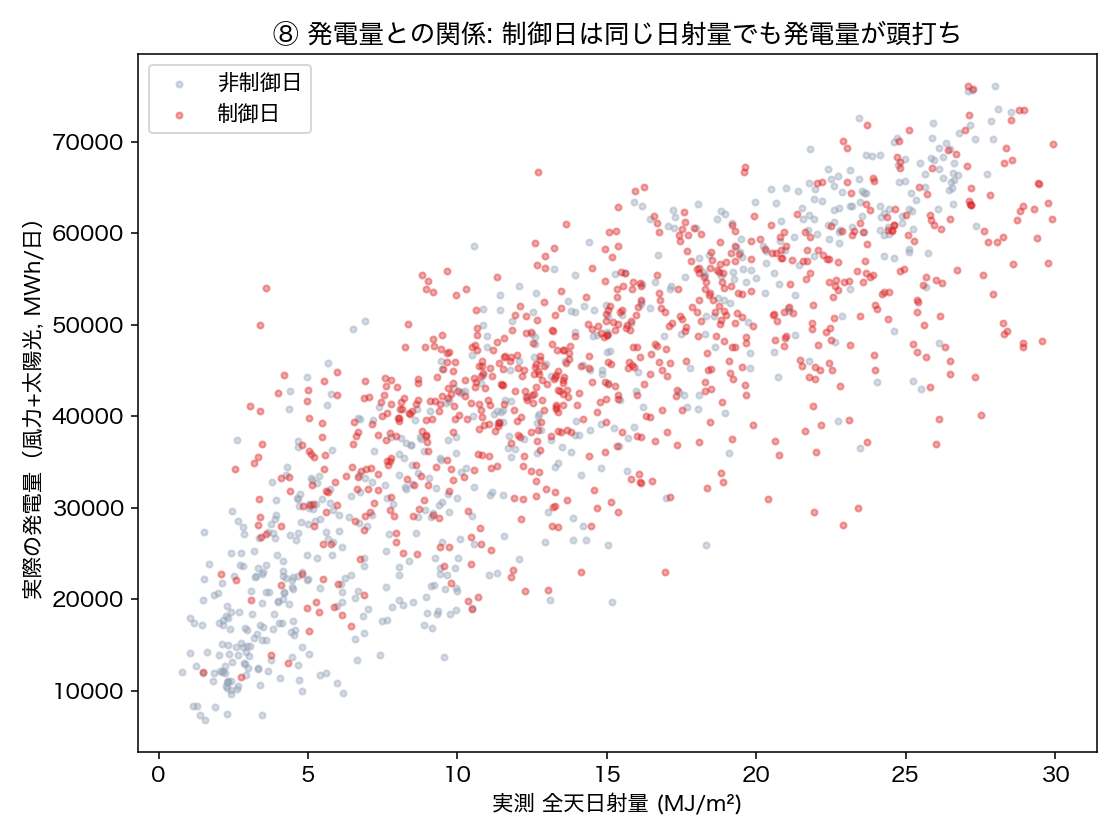
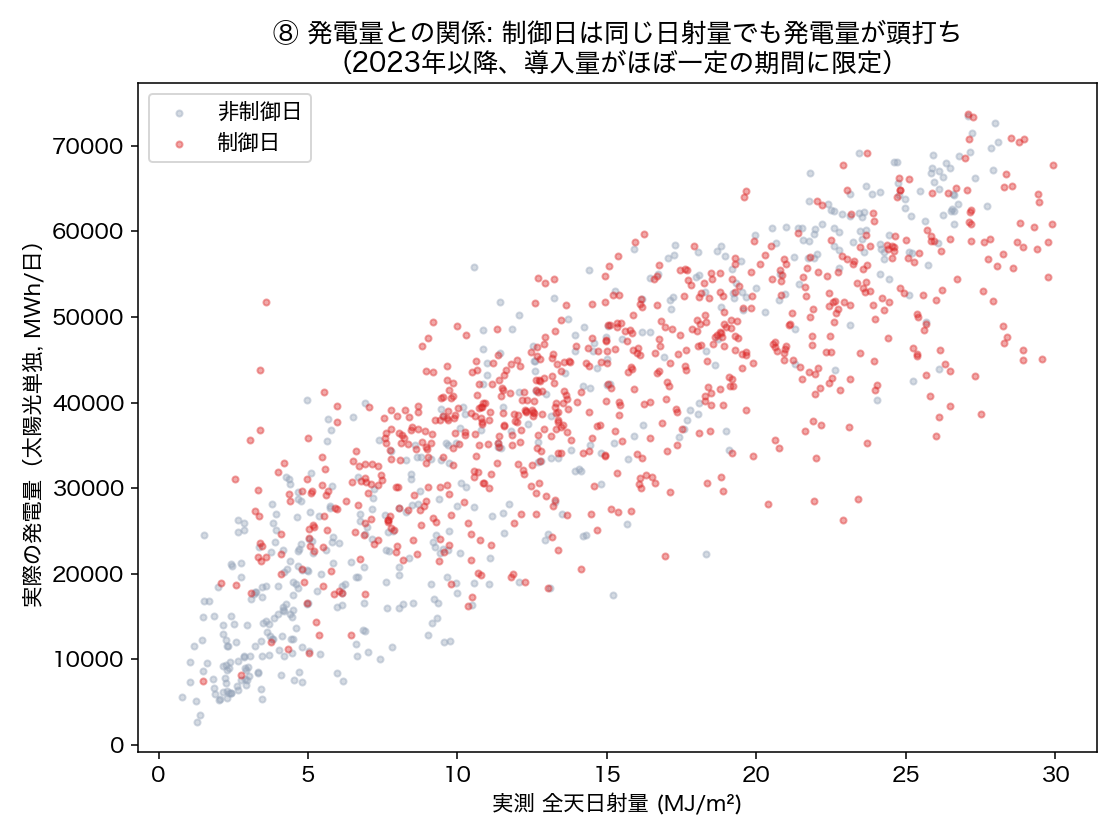
ID-01: 太陽光単独データに切り替えて発電量との相関を再検証
風力+太陽光の合計データでは風力という日射と無関係な変数が混ざり
相関が弱まるとの指摘を受け、太陽光単独の実績データに切り替えた。
九州電力送配電の旧形式(2016-2023年度、時別MWh)と新形式(2024年〜、
30分値)を接続し、2018-10〜2026-09の全期間で太陽光単独の日次発電量
を取得(fetch_kyushu_solar_only.py)。

太陽光単独にすると全天日射量r=0.835・日照時間r=0.799となり、風力
混在時(0.819/0.796)よりいずれも相関が改善。

副産物の発見: 出力制御の頭打ち効果を確認する際、太陽光の導入量が
年々増えているため全期間のまま単純比較すると「制御日の方が発電量が
多い」という逆転した結果になる。導入量がほぼ一定の2023年以降に
限定することで、正しく頭打ち効果(制御日46,206MWh vs 非制御日
52,080MWh)を確認できた。

REPORT.md・README.md・図2枚を更新。

diff --git a/experiments/id01_curtailment_compare/src/analyze_kyushu_generation.py b/experiments/id01_curtailment_compare/src/analyze_kyushu_generation.py
@@ -1,8 +1,12 @@
-"""九州電力送配電の実際の発電量（エリア風力・太陽光発電量、日次合計）と、気象データ
-（実測の日照時間・全天日射量、および各種予報手法のシミュレーション値）の相関を検証する。
+"""九州電力送配電の実際の発電量と、気象データ（実測の日照時間・全天日射量、および各種予報手法の
+シミュレーション値）の相関を検証する。
 
-注意: 発電量は「出力制御後」の値であり、かつ風力・太陽光の合計（九州は太陽光が主体と
-推測されるが厳密には混在）。制御が発生した日は「天気が良いのに発電量が増えない/落ちる」
+**太陽光単独**（kyushu_solar_only_daily.csv、2018-10〜2026-09・旧形式+新形式を接続して取得）を主軸にする。
+風力は日射と無関係なため、「エリア風力・太陽光発電量」の合計（kyushu_wind_solar_daily.csv、
+2022-07〜のみ）を使うと太陽光単独の相関より弱く出てしまう（ユーザーからの指摘で判明、比較結果は
+下記に出力する）。
+
+注意: 発電量は「出力制御後」の値。制御が発生した日は「天気が良いのに発電量が増えない/落ちる」
 という逆転が起きるため、相関を見る際は制御日と非制御日を分けて確認する。
 """
 from pathlib import Path
@@ -18,19 +22,17 @@ PROCESSED_DIR = BASE_DIR / "data" / "processed"
 
 
 def main():
-    gen = pd.read_csv(PROCESSED_DIR / "kyushu_wind_solar_daily.csv", parse_dates=["date"])
-    gen["wind_solar_mwh"] = gen["wind_solar_kwh"] / 1000
-
+    solar = pd.read_csv(PROCESSED_DIR / "kyushu_solar_only_daily.csv", parse_dates=["date"])
     solar_mj = pd.read_csv(PROCESSED_DIR / "solar_fukuoka.csv", parse_dates=["date"])
     backtest = build_backtest_dataset()  # sunshine_h(実測) / amgsds_proxy_h / simplified_h / is_curtailed
 
-    df = gen.merge(backtest, on="date", how="inner").merge(solar_mj, on="date", how="inner")
-    print(f"比較対象: {len(df)}日（{df['date'].min().date()} 〜 {df['date'].max().date()}）\n")
+    df = solar.merge(backtest, on="date", how="inner").merge(solar_mj, on="date", how="inner")
+    print(f"比較対象（太陽光単独、全期間）: {len(df)}日（{df['date'].min().date()} 〜 {df['date'].max().date()}）\n")
 
     print("=== 実際の発電量[MWh]との相関（全日） ===")
     for col, name in [("sunshine_h", "実測日照時間"), ("solar_mj", "実測全天日射量"),
                        ("amgsds_proxy_h", "AMGSDS風(快晴バイアス補正)"), ("simplified_h", "簡略化")]:
-        r = df["wind_solar_mwh"].corr(df[col])
+        r = df["solar_mwh"].corr(df[col])
         print(f"  {name:28s} r={r:.3f}")
 
     print("\n=== 非制御日のみでの相関（出力制御による頭打ちを除く） ===")
@@ -38,15 +40,33 @@ def main():
     print(f"  (n={len(non_curtailed)})")
     for col, name in [("sunshine_h", "実測日照時間"), ("solar_mj", "実測全天日射量"),
                        ("amgsds_proxy_h", "AMGSDS風(快晴バイアス補正)"), ("simplified_h", "簡略化")]:
-        r = non_curtailed["wind_solar_mwh"].corr(non_curtailed[col])
+        r = non_curtailed["solar_mwh"].corr(non_curtailed[col])
         print(f"  {name:28s} r={r:.3f}")
 
-    print("\n=== 制御日 vs 非制御日の発電量レベル（天気が同程度でも制御で頭打ちになるか） ===")
+    print("\n=== 制御日 vs 非制御日の発電量レベル（全期間、天気が同程度でも制御で頭打ちになるか） ===")
+    print("  【注意】全期間(2018-2026)だと太陽光の導入量が年々増えているため、単純比較は")
+    print("  「天気」ではなく「導入量の違う年を混ぜて比較」になり、頭打ち効果が隠れる/逆転しうる。")
     clear_days = df[df["weather_class"].isin(["快晴", "晴れ"])]
     for label, sub in [("快晴/晴れ×制御日", clear_days[clear_days["is_curtailed"] == 1]),
                         ("快晴/晴れ×非制御日", clear_days[clear_days["is_curtailed"] == 0])]:
-        print(f"  {label}: n={len(sub)}  発電量平均={sub['wind_solar_mwh'].mean():.1f}MWh  "
+        print(f"  {label}: n={len(sub)}  発電量平均={sub['solar_mwh'].mean():.1f}MWh  "
               f"実測日照時間平均={sub['sunshine_h'].mean():.2f}h")
+
+    print("\n=== 同じ比較（導入量がほぼ一定の直近期間に限定、2023-01以降） ===")
+    recent_clear = clear_days[clear_days["date"] >= "2023-01-01"]
+    for label, sub in [("快晴/晴れ×制御日(直近)", recent_clear[recent_clear["is_curtailed"] == 1]),
+                        ("快晴/晴れ×非制御日(直近)", recent_clear[recent_clear["is_curtailed"] == 0])]:
+        print(f"  {label}: n={len(sub)}  発電量平均={sub['solar_mwh'].mean():.1f}MWh  "
+              f"実測日照時間平均={sub['sunshine_h'].mean():.2f}h")
+
+    print("\n=== 参考: 風力+太陽光の合計（旧データ、2022-07〜）を使うと相関が弱まる ===")
+    wind_solar = pd.read_csv(PROCESSED_DIR / "kyushu_wind_solar_daily.csv", parse_dates=["date"])
+    wind_solar["wind_solar_mwh"] = wind_solar["wind_solar_kwh"] / 1000
+    df_ws = df.merge(wind_solar[["date", "wind_solar_mwh"]], on="date", how="inner")
+    for col, name in [("sunshine_h", "実測日照時間"), ("solar_mj", "実測全天日射量")]:
+        r_solar = df_ws["solar_mwh"].corr(df_ws[col])
+        r_ws = df_ws["wind_solar_mwh"].corr(df_ws[col])
+        print(f"  {name}: 太陽光単独 r={r_solar:.3f}  風力+太陽光合計 r={r_ws:.3f}  (n={len(df_ws)})")
 
     out_path = PROCESSED_DIR / "kyushu_generation_merged.csv"
     df.to_csv(out_path, index=False)

diff --git a/experiments/id01_curtailment_compare/src/fetch_kyushu_solar_only.py b/experiments/id01_curtailment_compare/src/fetch_kyushu_solar_only.py
@@ -1,0 +1,125 @@
+"""九州電力送配電の太陽光発電実績「単独」の日次合計を取得する（風力を含まない）。
+
+これまでの fetch_kyushu_generation.py は「エリア風力・太陽光発電量」の合計しか
+取得できなかった（出典: 需給調整業務の実施状況の公表、2022年7月〜）。
+風力は日射と無関係なので、太陽光だけとの相関を見るにはこの合計では不十分
+（ユーザーからの指摘）。
+
+太陽光を風力と分離した実績は、以下の2つの異なる形式のデータを繋ぎ合わせて作る:
+1. 旧形式「エリア需給実績データ」（2016年度〜2023年度、四半期CSV、時別値 MWh）
+   出典: https://www.kyuden.co.jp/td_area_jukyu/jukyu.html
+   列: ...,太陽光実績[MWh],太陽光抑制量[MWh],風力発電実績[MWh],風力抑制量[MWh],...
+2. 新形式「燃料種別発電実績」（2024年初頭〜現在、日次CSV、30分値 万kW平均）
+   出典: https://www.kyuden.co.jp/td_area_jukyu/csv/eria_kyokyujisseki_<YYYYMMDD>.csv
+   （ページ埋め込みのjukyu.jsから実際のファイル名パターンを特定）
+   列: ...,風力,太陽光,...  単位は「万kW平均」(30分の平均出力)なので
+   MWh = 値 × 10(万kW→MW) × 0.5(30分=0.5h) = 値 × 5
+"""
+import datetime as dt
+import sys
+import time
+from pathlib import Path
+
+import pandas as pd
+import requests
+
+BASE_DIR = Path(__file__).resolve().parent.parent
+OUT_PATH = BASE_DIR / "data" / "processed" / "kyushu_solar_only_daily.csv"
+
+OLD_QUARTERS = (
+    ["H30_3Q", "H30_4Q"]
+    + [f"{y}_{q}Q" for y in range(2019, 2024) for q in range(1, 5)]
+)
+OLD_URL = "https://www.kyuden.co.jp/td_area_jukyu/csv_area_jyukyu_jisseki/area_jyukyu_jisseki_{q}.csv"
+NEW_URL = "https://www.kyuden.co.jp/td_area_jukyu/csv/eria_kyokyujisseki_{date}.csv"
+NEW_START = dt.date(2024, 1, 1)
+
+
+def fetch_old_quarter(q: str) -> pd.DataFrame:
+    r = requests.get(OLD_URL.format(q=q), timeout=30)
+    r.raise_for_status()
+    r.encoding = "shift_jis"
+    lines = r.text.splitlines()
+    rows = []
+    for line in lines[2:]:
+        cols = line.split(",")
+        if len(cols) < 8:
+            continue
+        try:
+            dt_str = cols[0].strip('"')
+            date = pd.Timestamp(dt_str).date()
+            solar_mwh = float(cols[7])  # 太陽光実績[MWh]（列順は実測で確認済み）
+        except (ValueError, IndexError):
+            continue
+        rows.append({"date": date, "solar_mwh": solar_mwh})
+    df = pd.DataFrame(rows)
+    return df.groupby("date", as_index=False)["solar_mwh"].sum()
+
+
+def fetch_new_day(date: dt.date, max_retry: int = 3) -> float | None:
+    url = NEW_URL.format(date=date.strftime("%Y%m%d"))
+    for attempt in range(max_retry):
+        try:
+            r = requests.get(url, timeout=20)
+            break
+        except requests.exceptions.RequestException:
+            if attempt + 1 >= max_retry:
+                return None
+            time.sleep(3)
+    if r.status_code != 200:
+        return None
+    r.encoding = "shift_jis"
+    lines = r.text.splitlines()
+    total_mankw_half = 0.0
+    n = 0
+    for line in lines[2:]:
+        cols = [c.strip('"') for c in line.split(",")]
+        if len(cols) < 10:
+            continue
+        try:
+            total_mankw_half += float(cols[11])  # 太陽光列（実測で確認済み: DATE,TIME,原子力,地熱,水力,LNG,石炭,石油,その他,バイオマス,風力,太陽光,...）
+            n += 1
+        except ValueError:
+            continue
+    if n == 0:
+        return None
+    return total_mankw_half * 5  # 万kW平均(30分) -> MWh
+
+
+def main():
+    print("=== 旧形式（H30_3Q 〜 2023_4Q）取得中 ===")
+    old_frames = []
+    for q in OLD_QUARTERS:
+        print(f"  {q} ...", flush=True)
+        old_frames.append(fetch_old_quarter(q))
+        time.sleep(0.5)
+    old_df = pd.concat(old_frames, ignore_index=True).sort_values("date")
+
+    print("\n=== 新形式（2024-01-01 〜 前日）取得中 ===")
+    end = dt.date.today() - dt.timedelta(days=1)
+    new_rows = []
+    d = NEW_START
+    n_ok, n_missing = 0, 0
+    while d <= end:
+        val = fetch_new_day(d)
+        if val is not None:
+            new_rows.append({"date": d, "solar_mwh": val})
+            n_ok += 1
+        else:
+            n_missing += 1
+        time.sleep(0.3)
+        if d.day == 1:
+            print(f"  {d} まで取得中... (成功{n_ok}日 欠測{n_missing}日)", flush=True)
+        d += dt.timedelta(days=1)
+    new_df = pd.DataFrame(new_rows)
+
+    # 新形式の方が実測に近い(直接の太陽光列)ため、重複日は新形式を優先する
+    combined = pd.concat([old_df[old_df["date"] < NEW_START], new_df], ignore_index=True)
+    combined = combined.sort_values("date").drop_duplicates(subset="date", keep="last")
+    combined.to_csv(OUT_PATH, index=False)
+    print(f"\n完了: {len(combined)}日分（{combined['date'].min()} 〜 {combined['date'].max()}）")
+    print(f"保存先: {OUT_PATH}")
+
+
+if __name__ == "__main__":
+    main()

diff --git a/experiments/id01_curtailment_compare/src/visualize_summary.py b/experiments/id01_curtailment_compare/src/visualize_summary.py
@@ -238,13 +238,16 @@ def fig07_backtest_comparison():
 
 def fig08_generation_scatter():
     gen = pd.read_csv(PROCESSED_DIR / "kyushu_generation_merged.csv", parse_dates=["date"])
+    # 太陽光の導入量が年々増えているため、頭打ち効果を公平に見るには導入量がほぼ一定の
+    # 直近期間に限定する（全期間だと「天気」ではなく「導入量の違う年の混在」になってしまう）
+    gen = gen[gen["date"] >= "2023-01-01"]
     fig, ax = plt.subplots(figsize=(8, 6))
     for label, sub, color in [("非制御日", gen[gen["is_curtailed"] == 0], "#94a3b8"),
                                ("制御日", gen[gen["is_curtailed"] == 1], "#dc2626")]:
-        ax.scatter(sub["solar_mj"], sub["wind_solar_mwh"], s=10, alpha=0.4, color=color, label=label)
+        ax.scatter(sub["solar_mj"], sub["solar_mwh"], s=10, alpha=0.4, color=color, label=label)
     ax.set_xlabel("実測 全天日射量 (MJ/m²)")
-    ax.set_ylabel("実際の発電量（風力+太陽光, MWh/日）")
-    ax.set_title("⑧ 発電量との関係: 制御日は同じ日射量でも発電量が頭打ち")
+    ax.set_ylabel("実際の発電量（太陽光単独, MWh/日）")
+    ax.set_title("⑧ 発電量との関係: 制御日は同じ日射量でも発電量が頭打ち\n（2023年以降、導入量がほぼ一定の期間に限定）")
     ax.legend()
     fig.tight_layout()
     fig.savefig(FIG_DIR / "08_generation_scatter.png", dpi=140)
@@ -256,8 +259,8 @@ def fig09_generation_corr_comparison():
     non_curtailed = gen[gen["is_curtailed"] == 0]
     methods = [("sunshine_h", "日照時間"), ("solar_mj", "全天日射量"),
                ("amgsds_proxy_h", "AMGSDS風"), ("simplified_h", "簡略化")]
-    all_r = [gen["wind_solar_mwh"].corr(gen[c]) for c, _ in methods]
-    nc_r = [non_curtailed["wind_solar_mwh"].corr(non_curtailed[c]) for c, _ in methods]
+    all_r = [gen["solar_mwh"].corr(gen[c]) for c, _ in methods]
+    nc_r = [non_curtailed["solar_mwh"].corr(non_curtailed[c]) for c, _ in methods]
 
     x = np.arange(len(methods))
     width = 0.35
@@ -268,7 +271,7 @@ def fig09_generation_corr_comparison():
     ax.set_xticklabels([m[1] for m in methods])
     ax.set_ylabel("実際の発電量との相関係数 r")
     ax.set_ylim(0.6, 0.95)
-    ax.set_title("⑨ 発電量との相関: 全天日射量が最も強い（日照時間より上）")
+    ax.set_title("⑨ 発電量（太陽光単独）との相関: 全天日射量が最も強い（日照時間より上）")
     ax.legend()
     fig.tight_layout()
     fig.savefig(FIG_DIR / "09_generation_corr.png", dpi=140)

diff --git a/README.md b/README.md
@@ -87,7 +87,7 @@
 - **ID-01の追加検証: 「日照時間＋曜日（土日祝）」のロジスティック回帰で制御有無を予測（2026-10-01）**: 九州で時系列分割（前70%学習・後30%評価）のロジスティック回帰を実施。**ROC-AUC 0.669**（天気・曜日単独より両方使う方が上がる＝相補的）。評価期間は太陽光導入量増加で制御日の割合が学習期間より大幅に高く、この分布シフトのせいでトレンド項（経過年数）が無いと確率を過小評価し再現率0.339止まり、トレンド項を1つ加えるだけで再現率0.882まで改善（AUCは不変）。詳細は [experiments/id01_curtailment_compare/](experiments/id01_curtailment_compare/README.md#追加検証-ロジスティック回帰でどこまで予測できるか九州)。
 - **ID-01のGenAI角を実証: 翌日予報→ロジスティック回帰→Claudeの平文説明（2026-10-01）**: 翌日の日照時間予報 → 上記ロジスティック回帰で出力制御確率を予測 → Claude（$0.004〜0.005/回）が数値を解釈して事業者向けの平文説明を生成、という一連のパイプラインが実際に動作することを確認。ID-01が狙っていた「GenAIの必然性」を小規模に実証。詳細は [experiments/id01_curtailment_compare/](experiments/id01_curtailment_compare/README.md#追加検証-genai角天気予報からの平文説明id-01のgenai角そのもの)。
 - **農研機構AMGSDS数値予報と簡略化を比較、「AMGSDSの方が正確」は誤りと判明（2026-10-01、訂正あり）**: 気象庁の天気カテゴリを実測日照時間の分位点で代用する簡略化と、農研機構メッシュ農業気象データ（AMGSDS、[CLAUDE.md](CLAUDE.md)で第三者APIとして例外許可）の数値予報は値が大きく異なった（簡略化9.1h vs AMGSDS4.57h）。**当初「AMGSDSの方が精度が高い」としたが誤りだった**: 過去日付での検証は実況（解析値）を返すだけで予報精度の検証になっていなかった。`ml_forecast`の既存検証（実際の予報vintage）によれば、**AMGSDSのSSD予報は快晴日（出力制御が最も起きやすい条件）に-5h前後系統的に過少評価する**既知のバイアスがあり、簡略化の方が優れているとも言えない（両者とも異なる系統誤差を持つ）。沖縄の出力制御実績で両手法を検証することも試みたが、**出力制御データ（〜2026年3月）とAMGSDS予報vintageデータ（2026年5月〜）の間に重複期間が無く不可能**だった。AMGSDSがメッシュ（面）データで九州本土全体（陸上セル37,731点）を取得できる利点は変わらず有効。詳細は [experiments/id01_curtailment_compare/](experiments/id01_curtailment_compare/README.md#追加検証3-amgsdsの方が正確という前提への訂正重要)。
-- **ID-01: 快晴バイアス補正のバックテストと実際の発電量での精度比較を実施（2026-10-01）**: 実測日照時間にml_forecastの快晴バイアスを加えた「AMGSDS風」シミュレーションと簡略化をロジスティック回帰でバックテストした結果、**簡略化の方がAUC 0.686で簡略化0.648を上回った**（快晴バイアス補正が出力制御リスクが最も高い快晴日の信号を弱めるため）。さらに九州電力送配電の実際の発電量データ（風力+太陽光、2022-07〜2026-09・1553日分）で検証した結果、**実際の発電量（連続量）との相関は全天日射量が最も高く（r=0.819）、日照時間（r=0.796）を上回った**——出力制御の有無（二値）の判別力は逆に日照時間の方が高いため、**目的変数によって最適な気象指標が変わる**という結論。快晴/晴れ日で制御日と非制御日を比べると、日照時間がほぼ同じでも発電量は制御日の方が明確に低く、出力制御の頭打ち効果もデータで確認できた。スライド化を見据えた図表付きサマリーは [experiments/id01_curtailment_compare/REPORT.md](experiments/id01_curtailment_compare/REPORT.md)。
+- **ID-01: 快晴バイアス補正のバックテストと実際の発電量での精度比較を実施（2026-10-01）**: 実測日照時間にml_forecastの快晴バイアスを加えた「AMGSDS風」シミュレーションと簡略化をロジスティック回帰でバックテストした結果、**簡略化の方がAUC 0.686で簡略化0.648を上回った**（快晴バイアス補正が出力制御リスクが最も高い快晴日の信号を弱めるため）。さらに九州電力送配電の実際の発電量データで検証（**当初は風力+太陽光の合計データだったが、風力は日射と無関係とのユーザー指摘を受け、旧形式+新形式を接続して太陽光単独の実績〔2018-10〜2026-09〕を取得し直した**）した結果、**実際の発電量（連続量）との相関は全天日射量が最も高く（r=0.835）、日照時間（r=0.799）を上回った**——出力制御の有無（二値）の判別力は逆に日照時間の方が高いため、**目的変数によって最適な気象指標が変わる**という結論。快晴/晴れ日で制御日と非制御日を比べると（太陽光導入量がほぼ一定の2023年以降に限定）、日照時間がほぼ同じでも発電量は制御日の方が明確に低く、出力制御の頭打ち効果もデータで確認できた（全期間で単純比較すると導入量増加の影響で逆転するため注意）。スライド化を見据えた図表付きサマリーは [experiments/id01_curtailment_compare/REPORT.md](experiments/id01_curtailment_compare/REPORT.md)。
 - **ID-01: 「土日に多い」の季節変動を発見（2026-10-01）**: 九州の出力制御実績を月別に集計すると、**春（3〜5月）は制御頻発・土日比率は基準(28.6%)に近い(30〜31%)が、夏〜初秋(7〜9月)は制御希少・土日比率が極めて高い(74〜88%)**という、季節で全く異なる2パターンが判明。春は需要自体が少なく平日でも供給過多になりやすいため曜日差が出にくく、夏〜初秋は冷房需要で平日需要が高く保たれるため供給過多が土日に限られる、と解釈できる。「土日の割合37.4%」という全体集計値はこの2パターンの平均であり、単純な「土日要因」だけでは説明不十分。**沖縄も確認したが、6〜10月の出力制御が0日**（2023〜2025年度を通じて）で、九州の「頻度が下がる」とは異なり「季節自体が制御の有無を完全に分ける」パターンだった。詳細は [experiments/id01_curtailment_compare/REPORT.md](experiments/id01_curtailment_compare/REPORT.md)。
 - 次: 3分デモ筋書きを [docs/candidates/c32_weather_chart_vlm.md](docs/candidates/c32_weather_chart_vlm.md) をもとに詰める → ハッカソン要項の確認（[plan.md](plan.md) フェーズ4）。
 

diff --git a/experiments/id01_curtailment_compare/REPORT.md b/experiments/id01_curtailment_compare/REPORT.md
@@ -150,28 +150,34 @@ Claudeが生成したレポート（$0.0045/回）:
 数値の再計算はさせず解釈のみを行わせている（ハルシネーション対策）。既知のバイアスについても
 正しく言及している。
 
-## 6. 実際の発電量との精度比較（完了）
+## 6. 実際の発電量との精度比較（完了、太陽光単独データに訂正済み）
 
-九州電力送配電の日次発電量データ（風力・太陽光合計、2022年7月〜2026年9月・1553日分、
-[fetch_kyushu_generation.py](src/fetch_kyushu_generation.py)で取得）を使い、気象データが
-**実際の発電量[MWh]**をどこまで説明できるかを検証した（出力制御の有無という二値ではなく、
-連続量での精度比較）。
+九州電力送配電の日次発電量データを使い、気象データが**実際の発電量[MWh]**をどこまで説明できるかを
+検証した（出力制御の有無という二値ではなく、連続量での精度比較）。**当初は「エリア風力・太陽光発電量」
+の合計（2022年7月〜）しか取得できていなかったが、風力は日射と無関係なので太陽光単独の相関を見るには
+不十分とのユーザーからの指摘を受け、太陽光単独の実績（旧形式+新形式を接続し2018年10月〜2026年9月の
+全期間で取得、[fetch_kyushu_solar_only.py](src/fetch_kyushu_solar_only.py)）に切り替えた**。
 
 ![発電量との散布図](results/figs/08_generation_scatter.png)
 
 全天日射量と発電量はほぼ線形の関係だが、**出力制御日（赤）は同じ日射量でも発電量が頭打ちになる**
-様子がはっきり見える（例: 快晴/晴れ日で比較すると、制御日の発電量平均49,746MWhに対し非制御日は
-54,149MWh、日照時間はほぼ同じ8.60h vs 8.66h）。出力制御の「供給過多を抑える」という目的が
-データ上でも確認できた。
+様子がはっきり見える（2023年以降・太陽光導入量がほぼ一定の期間に限定。快晴/晴れ日で比較すると、
+制御日の発電量平均46,206MWhに対し非制御日は52,080MWh、日照時間はほぼ同じ8.62h vs 8.86h）。
+出力制御の「供給過多を抑える」という目的がデータ上でも確認できた。
+**全期間(2018-2026)で単純比較すると、太陽光の導入量が年々増えているため「制御日の方が発電量が多い」
+という逆転した結果になる**（導入量が違う年を混ぜて比較してしまうため）。期間を揃えることが重要。
 
 ![発電量との相関比較](results/figs/09_generation_corr.png)
 
 | 手法 | 全日 r | 非制御日のみ r |
 |---|---|---|
-| 日照時間（実測） | 0.796 | 0.878 |
-| **全天日射量（実測）** | **0.819** | **0.897** |
-| AMGSDS風（快晴バイアス補正） | 0.695 | 0.800 |
-| 簡略化（カテゴリ→分位点） | 0.711 | 0.784 |
+| 日照時間（実測） | 0.799 | 0.835 |
+| **全天日射量（実測）** | **0.835** | **0.876** |
+| AMGSDS風（快晴バイアス補正） | 0.670 | 0.733 |
+| 簡略化（カテゴリ→分位点） | 0.691 | 0.718 |
+
+（参考: 風力を含む合計データで同じ比較をすると、相関はどの指標でもやや弱まる——日照時間
+r=0.796、全天日射量r=0.819（2022年7月〜のみ）。風力という無関係な変数が混ざるとノイズになる。）
 
 **ここでは全天日射量の方が日照時間より発電量との相関が高い**（逆に出力制御の有無という二値の判別力は
 日照時間の方が高かった＝セクション2）。つまり「全天日射量の方が発電量との相関が良い」という当初の
@@ -196,6 +202,7 @@ Claudeが生成したレポート（$0.0045/回）:
 | AMGSDSの数値予報は簡略化より優れているか | **No**（快晴日の過少評価バイアスがあるため） |
 | GenAIで平文説明は作れるか | できた（$0.004〜0.005/回、バイアスの注意点も含めて説明） |
 | 九州 vs 沖縄 | 九州の方がデータ・信号ともに優位 |
-| 全天日射量は発電量との相関が良いか | **実際の発電量（連続量）ならYes**（r=0.819、日照時間の0.796より高い）。ただし出力制御の有無（二値）の判別は日照時間の方が高い（セクション2・4は逆） |
-| 出力制御は発電量データにも現れるか | 現れる。同じ日射量でも制御日は発電量が頭打ち（快晴/晴れ日で平均49,746MWh vs 54,149MWh） |
+| 全天日射量は発電量との相関が良いか | **太陽光単独データならYes**（r=0.835、日照時間の0.799より高い）。ただし出力制御の有無（二値）の判別は日照時間の方が高い（セクション2・4は逆） |
+| 風力を含む合計データで見ても良いか | **No**（ユーザーの指摘で訂正）。風力は日射と無関係なノイズになり、相関がどの指標でも弱まる。太陽光単独に切り替えて検証 |
+| 出力制御は発電量データにも現れるか | 現れる（導入量がほぼ一定の2023年以降で比較）。同じ日射量でも制御日は発電量が頭打ち（快晴/晴れ日で平均46,206MWh vs 52,080MWh）。**全期間で単純比較すると導入量増加の影響で逆転するので要注意** |
 | 「土日に多い」に季節変動はあるか | **大きくある**。九州は春（3〜5月）に制御頻発・土日比率は基準に近い(30〜31%)、夏〜初秋(7〜9月)は制御希少・土日比率が極めて高い(74〜88%)。沖縄は6〜10月の制御が0日で、季節自体が有無を分ける |

diff --git a/experiments/id01_curtailment_compare/README.md b/experiments/id01_curtailment_compare/README.md
@@ -182,20 +182,24 @@ cd experiments/id01_curtailment_compare
 
 簡略化の方が実測そのものよりもわずかに良く、AMGSDS風補正より明確に上回った。快晴バイアス補正が、出力制御リスクが最も高い「快晴日」のリスク信号を弱めてしまうため。追加検証3の結論（両手法に優劣はつけられない、AMGSDSは快晴日に不利な可能性がある）を数値で裏付けた。
 
-### 4.2 実際の発電量での精度比較
+### 4.2 実際の発電量での精度比較（太陽光単独データに訂正済み）
 
-九州電力送配電の日次発電量データ（風力・太陽光合計、2022年7月〜2026年9月・1553日分、[src/fetch_kyushu_generation.py](src/fetch_kyushu_generation.py)で取得、[src/analyze_kyushu_generation.py](src/analyze_kyushu_generation.py)で分析）を使い、出力制御の有無（二値）ではなく**実際の発電量[MWh]との相関**を検証した。
+当初は九州電力送配電の「エリア風力・太陽光発電量」の合計（2022年7月〜、[src/fetch_kyushu_generation.py](src/fetch_kyushu_generation.py)）しか取得できていなかったが、**風力は日射と無関係なので太陽光単独の相関を見るには不十分**とのユーザーからの指摘を受け、太陽光単独の実績データに切り替えた。
+
+九州電力送配電は太陽光の発電実績を2段階の異なる形式で公開している: ①旧形式「エリア需給実績データ」（2016〜2023年度、四半期CSV、時別値、太陽光・風力が別列）、②新形式「燃料種別発電実績」（2024年初頭〜現在、日次CSV、30分値、こちらも別列）。この2つを接続し、[src/fetch_kyushu_solar_only.py](src/fetch_kyushu_solar_only.py)で**太陽光単独の日次合計を2018年10月〜2026年9月の全期間で取得**した。
 
 | 手法 | 全日 r | 非制御日のみ r |
 |---|---|---|
-| 日照時間（実測） | 0.796 | 0.878 |
-| **全天日射量（実測）** | **0.819** | **0.897** |
-| AMGSDS風（快晴バイアス補正） | 0.695 | 0.800 |
-| 簡略化（カテゴリ→分位点） | 0.711 | 0.784 |
+| 日照時間（実測） | 0.799 | 0.835 |
+| **全天日射量（実測）** | **0.835** | **0.876** |
+| AMGSDS風（快晴バイアス補正） | 0.670 | 0.733 |
+| 簡略化（カテゴリ→分位点） | 0.691 | 0.718 |
+
+（参考: 風力を含む合計データ（2022年7月〜）で同じ比較をすると、日照時間r=0.796・全天日射量r=0.819と、いずれも太陽光単独より相関が弱まる。風力という無関係な変数が混ざるとノイズになるため。）
 
 **発電量（連続量）との相関は全天日射量の方が日照時間より高い**。これは「追加検証」セクションの出力制御有無（二値）の判別力（日照時間の方が高い）と逆の結果。つまりユーザーが最初に指摘した「全天日射量の方が発電量との相関が良いはず」という直感は、**連続量の発電量を見るなら正しく、二値の出力制御判定を見るなら必ずしも正しくない**、という目的変数依存の結論になった。
 
-また、快晴/晴れ日で制御日(n=535)と非制御日(n=255)を比べると、実測日照時間はほぼ同じ（8.60h vs 8.66h）にもかかわらず発電量平均は49,746MWh vs 54,149MWhと明確に低く、**出力制御が実際に発電量を頭打ちにしている様子がデータで直接確認できた**。
+快晴/晴れ日で制御日と非制御日を比べると、**太陽光の導入量がほぼ一定の2023年以降に限定した場合**は実測日照時間がほぼ同じ（8.62h vs 8.86h）にもかかわらず発電量平均は46,206MWh vs 52,080MWhと明確に低く、**出力制御が実際に発電量を頭打ちにしている様子がデータで直接確認できた**。**ただし全期間（2018〜2026年）で単純比較すると、太陽光の導入量が年々大きく増えているため「制御日の方が発電量が多い」という逆転した結果になる**（導入量が違う年を混ぜて比較してしまうため）。期間を揃えることが重要という教訓。
 
 詳細な図（散布図・バー比較）は [REPORT.md](REPORT.md) を参照。
 
